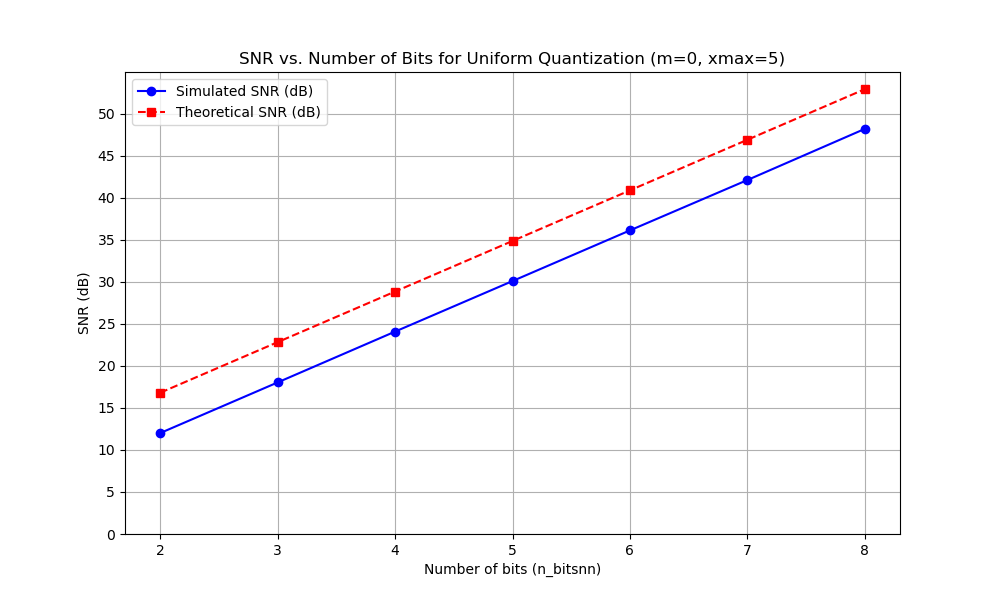
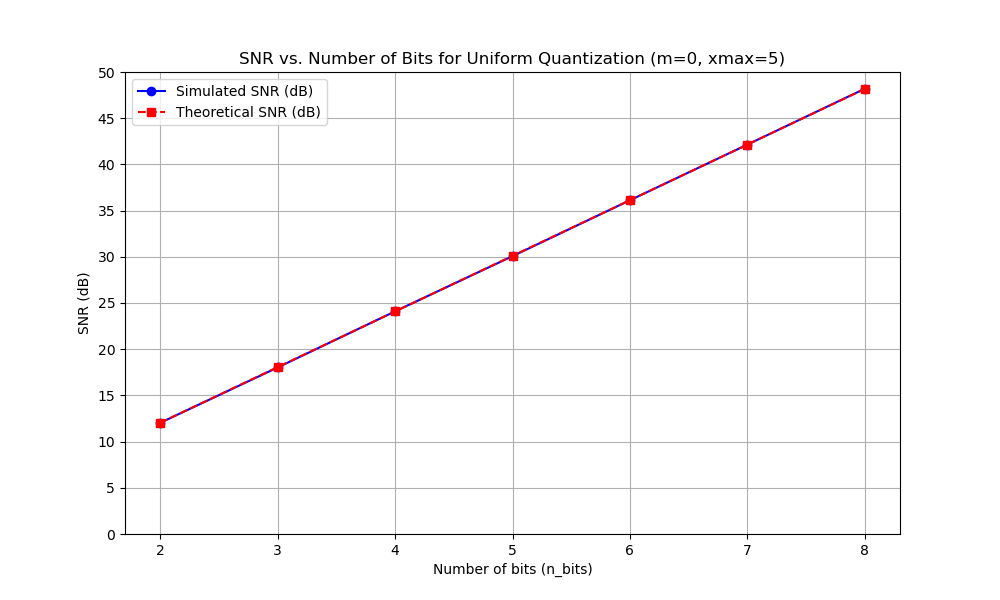
add: new corrected graphs

diff --git a/assignment_one/processing.py b/assignment_one/processing.py
@@ -38,7 +38,7 @@ def uniform_dequantizer(q_ind: np.ndarray, n_bits: int, x_max: float, m: int) ->
     L = 2**n_bits
     delta = 2 * x_max / L
     offset = m * delta / 2
-    org_values = q_val * delta - x_max + offset + delta / 2
+    org_values = q_ind * delta - x_max + offset + delta / 2
     org_values = np.clip(org_values, -x_max, x_max)
     return org_values
 

diff --git a/assignment_one/testing.py b/assignment_one/testing.py
@@ -159,7 +159,7 @@ def random_nonuniform_with_compression():
     plt.show()
 
 
-# deterministic_test()
-# random_test()
+deterministic_test()
+random_test()
 random_nonuniform_test()
 random_nonuniform_with_compression()
